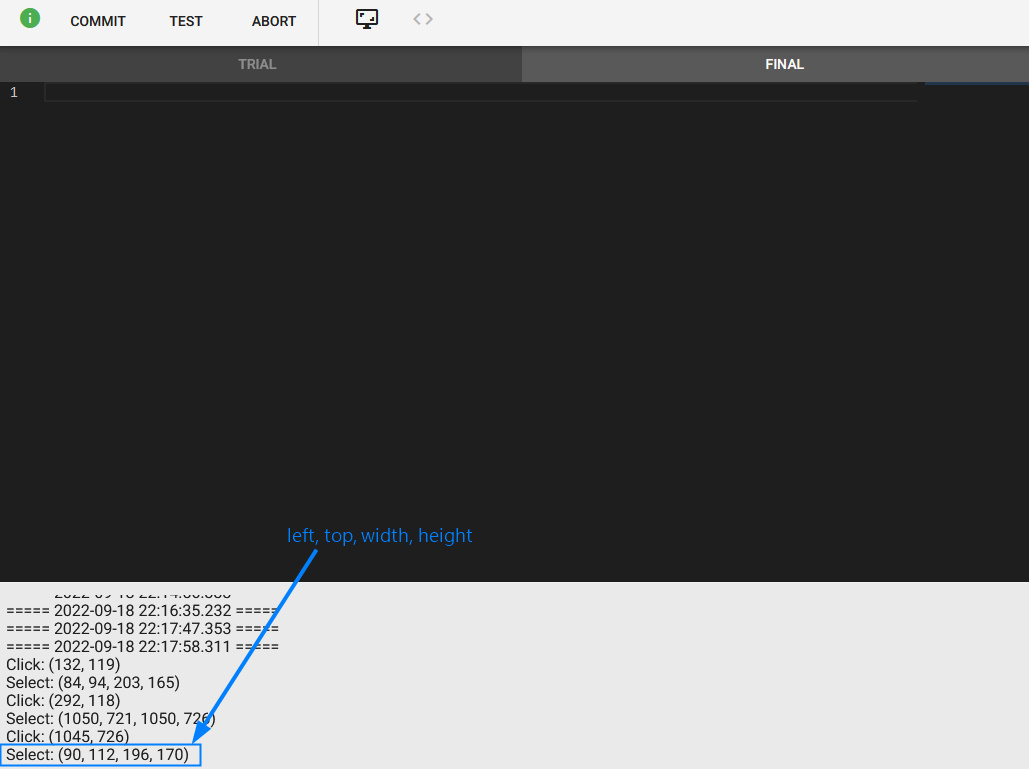
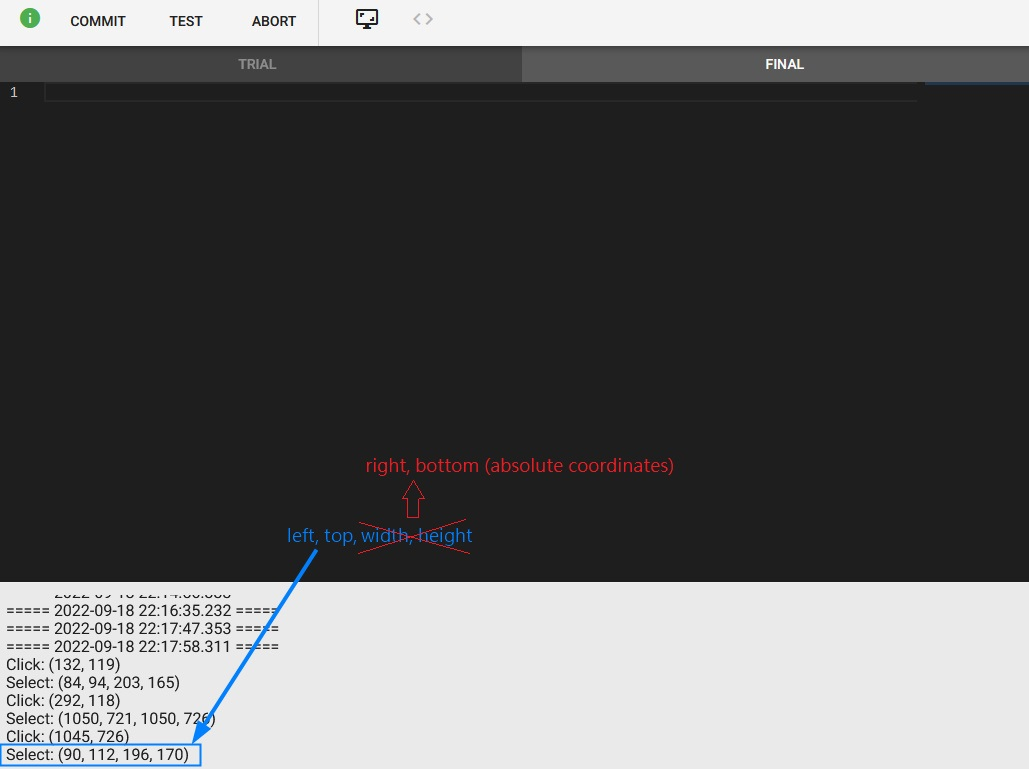
add meeting md

diff --git a/course/6-desk-automation(DA)/3-positioning.md b/course/6-desk-automation(DA)/3-positioning.md
@@ -23,6 +23,10 @@
 ![alt frame a rect area](pic/bandicam%202022-09-18%2022-22-23-814.jpg)
 ![alt get coord and rect info](pic/bandicam%202022-09-18%2022-23-01-075.jpg)
 
+- **All four values are absolute coordinates**.
+  - So if you want to get the relative position by this method, you have to do some calculations to get.
+  - Because the properties of CROP are **left, top, width, height**, it is easy to misunderstand here.
+
 ## **Get relative coordinates to current CROP**
 
 ![alt get CROP's green shade from ALL CROPS](pic/bandicam%202022-09-18%2022-27-33-095.jpg)

diff --git a/course/6-desk-automation(DA)/5. copy-paste-keyboard-iteration.md b/course/6-desk-automation(DA)/5. copy-paste-keyboard-iteration.md
@@ -1,0 +1,1 @@
+Try to use more synchronous instructions here.
